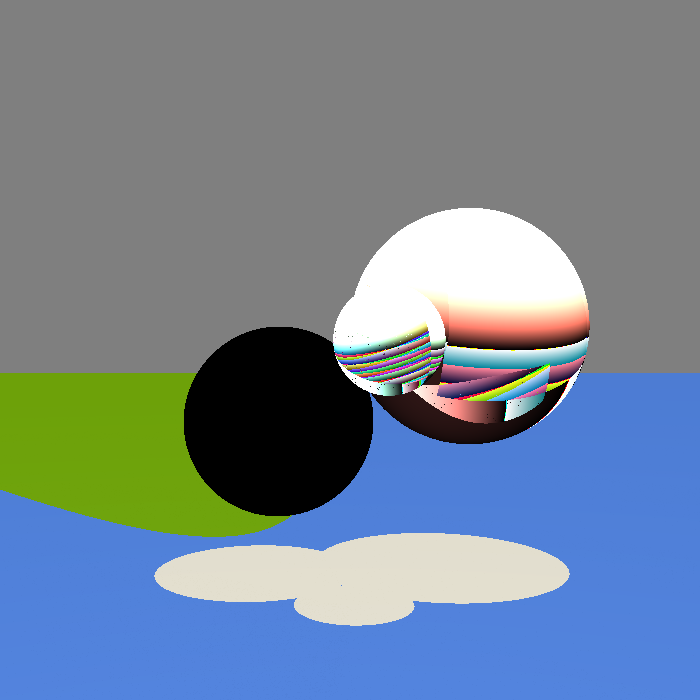
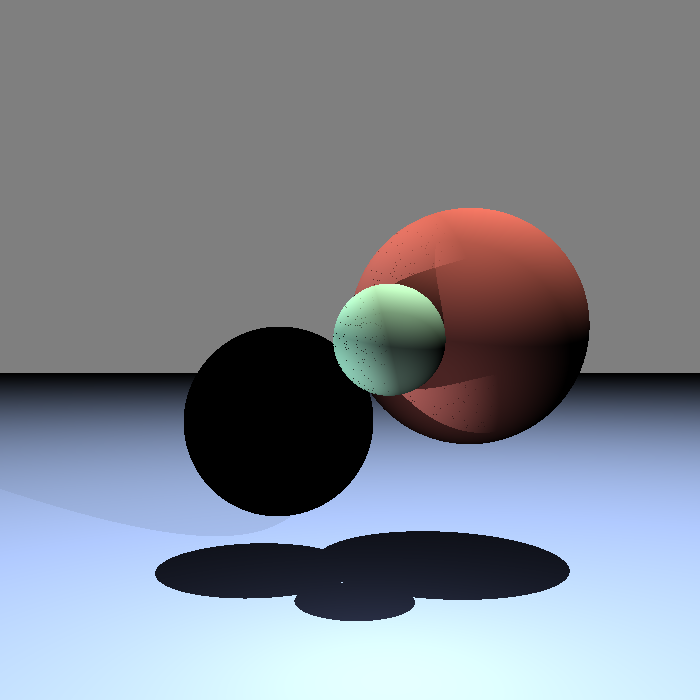
some bug fixes

diff --git a/src/RayTracing/Set.java b/src/RayTracing/Set.java
@@ -94,12 +94,13 @@ public class Set {
 	{
 		Vector closest_intersection = null;
 		Primitive closest_primitive = null;
+		//TODO: compute all_primitives only once somewhere else in the code
 		ArrayList<Primitive> all_primitives = new ArrayList<>();
 		all_primitives.addAll(spheres);
 		all_primitives.addAll(planes);
 		all_primitives.addAll(triangles);
 		
-		// FIXME: doesn't account for hitting lights!
+		// TODO: now doesn't account for hitting lights!
 		for (Primitive primitive : all_primitives)
 		{
 			try 
@@ -153,7 +154,7 @@ public class Set {
 	
 	private Color getColorAtIntersection(Primitive primitive, Ray inRay, Vector intersection) 
 	{
-		// FIXME
+		// TODO: add reflection, specularity, transparancy, soft shadows...
 		Color color = new Color(0,0,0);
 		Color K_d = primitive.getMaterial().getDiffuseColor();
 		for (Light lit : lights)
@@ -164,13 +165,16 @@ public class Set {
 				Vector go_back_a_little = new Vector(intersection.substract(inRay.getVector().timesScalar(0.05)));
 
 				Vector L = lit.getOrigin().substract(go_back_a_little);
-				Vector N = primitive.normalAtIntersection(inRay);
+				Vector N = primitive.normalAtIntersection(inRay).toUnit();
 				
 				Ray r = new Ray(go_back_a_little, L);
 				if (firstHit(r, lit))
 				{
 					Color I_p = lit.getColor();
-					double factor = N.dotProduct(L);
+					double factor = N.dotProduct(L.toUnit());
+					//TODO: think about the correct factor
+					if (factor < 0)
+						factor = 0;
 					color = color.add(K_d.multiply(I_p).scalarMultipy(factor));
 				}
 			}
@@ -185,6 +189,7 @@ public class Set {
 
 	private boolean firstHit(Ray r, Light lit) 
 	{
+		//TODO: compute all_primitives only once somewhere else in the code
 		ArrayList<Primitive> all_primitives = new ArrayList<>();
 		all_primitives.addAll(spheres);
 		all_primitives.addAll(planes);
